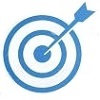
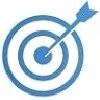
fin

Changed region(s): [[0.0, 0.0, 0.99, 0.99], [0.39, 0.15, 0.42, 0.21]]

diff --git a/index.html b/index.html
@@ -94,7 +94,7 @@
             </div>
             <!-- Counter3-->
             <div class="col" id="counter">
-                <img src="assets/images/target.jpg" alt="Mountain View"><br />
+                <img src="assets/images/targetp.png" alt="Mountain View"><br />
                 <span class="counter" data-count="2200">0</span><br />
                 <span class="countertitle">Adoption Goal</span>
             </div>
